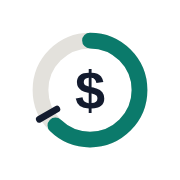
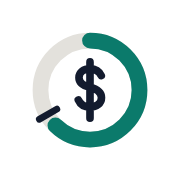
feat(brand): centre the peso sign in every brand mark
The favicon, BrandMark header logo and home screen icons now draw the
same peso sign path instead of the centre dot, independent of fonts.

Changed region(s): [[0.4167, 0.3056, 0.6111, 0.6944]]

diff --git a/src/client/components/brand/BrandMark.tsx b/src/client/components/brand/BrandMark.tsx
@@ -7,8 +7,8 @@ export interface BrandMarkProps {
 }
 
 /**
- * Month gauge logo (identity direction B): a ring with a calm arc, the "today" tick and a center
- * dot. Decorative by default (`aria-hidden`) so a surrounding link keeps its own label; pass
+ * Month gauge logo (identity direction B): a ring with a calm arc, the "today" tick and a peso
+ * sign at the center. Decorative by default (`aria-hidden`) so a surrounding link keeps its own label; pass
  * `title` to expose it as a standalone image. Colors read the design tokens with the hex values
  * as fallback so the mark also works outside the token scope.
  */
@@ -38,7 +38,7 @@ export function BrandMark({ size = 28, title, className }: BrandMarkProps) {
 				transform="rotate(-90 28 28)"
 			/>
 			<path d="M28 2v9" stroke={ink} strokeWidth="3" strokeLinecap="round" transform="rotate(240 28 28)" />
-			<circle cx="28" cy="28" r="5" fill={ink} />
+			<path d="M33 21.6C32.1 19.7 30.3 18.6 28 18.6c-2.9 0-4.9 1.6-4.9 3.9 0 2.6 2.3 3.6 4.9 4.3 2.9.8 5.1 1.9 5.1 4.6 0 2.5-2.2 4.2-5.1 4.2-2.4 0-4.3-1.2-5.2-3.2M28 15.5v25" fill="none" stroke={ink} strokeWidth="3.4" strokeLinecap="round" strokeLinejoin="round" />
 		</svg>
 	);
 }

diff --git a/test/brand-identity.test.js b/test/brand-identity.test.js
@@ -65,6 +65,17 @@ test("favicon is the month gauge mark as an svg", async () => {
 	assert.match(svg, /<\/svg>\s*$/);
 });
 
+// The mark's centre is a peso sign drawn as a path (never font-dependent text), identical in every copy.
+const PESO_SIGN = "M33 21.6C32.1 19.7 30.3 18.6 28 18.6c-2.9 0-4.9 1.6-4.9 3.9 0 2.6 2.3 3.6 4.9 4.3 2.9.8 5.1 1.9 5.1 4.6 0 2.5-2.2 4.2-5.1 4.2-2.4 0-4.3-1.2-5.2-3.2M28 15.5v25";
+test("every copy of the brand mark centres the peso sign instead of a dot", async () => {
+	for (const path of ["public/favicon.svg", "src/client/components/brand/BrandMark.tsx", "scripts/brand/app-icon.svg"]) {
+		const source = await read(path);
+		assert.ok(source.includes(`d="${PESO_SIGN}"`), `${path} must draw the peso sign`);
+		assert.doesNotMatch(source, /r="5"/, `${path} must not keep the centre dot`);
+		assert.doesNotMatch(source, /<text/, `${path} must not depend on a font`);
+	}
+});
+
 test("design tokens add the Semáforo sereno palette and keep the base ones", async () => {
 	const css = await read("src/client/design-tokens.css");
 	const tokens = {
